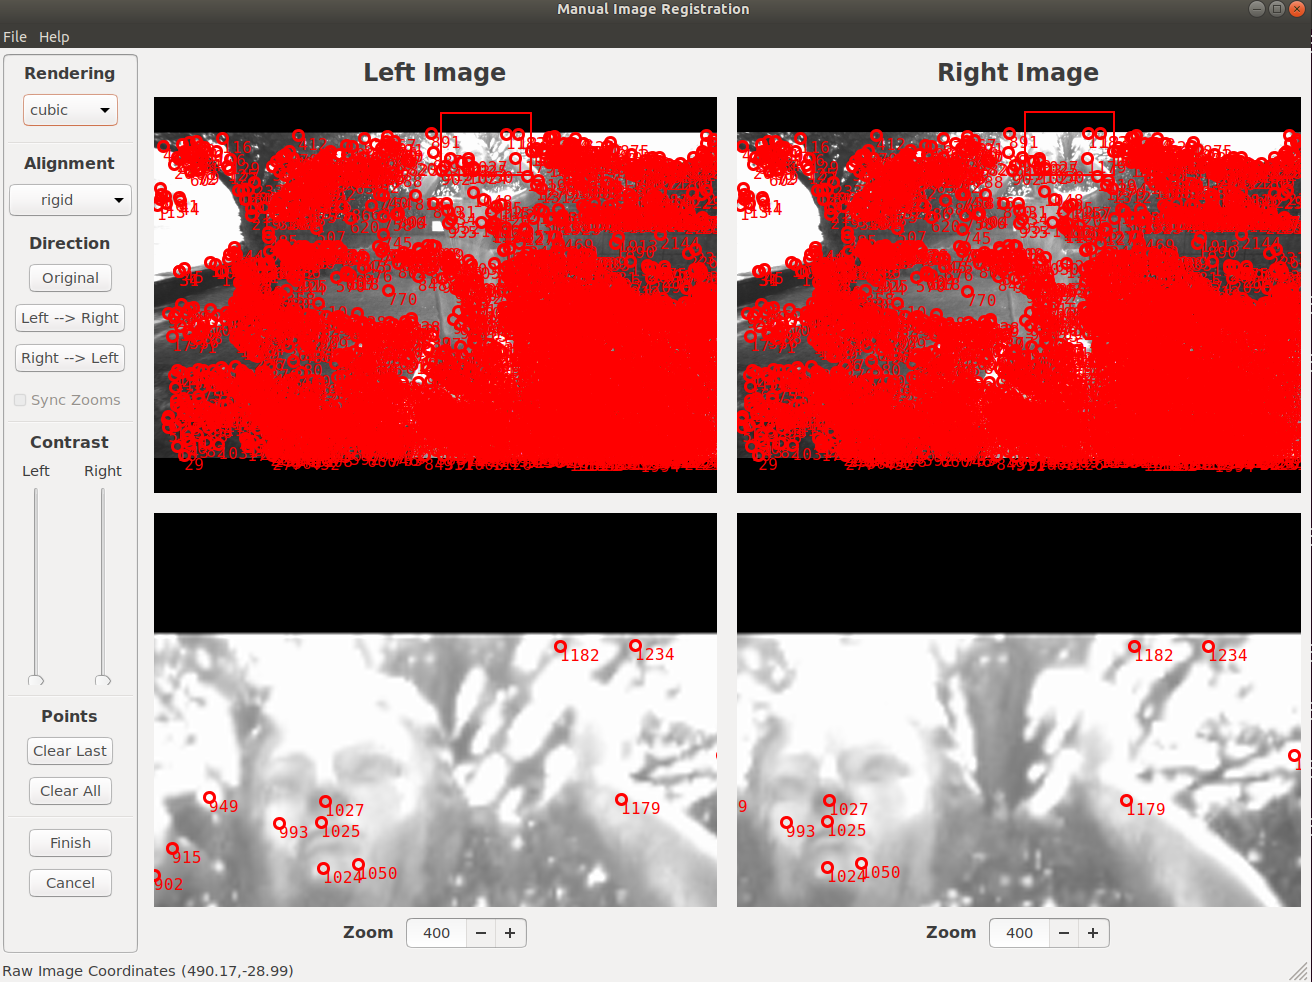
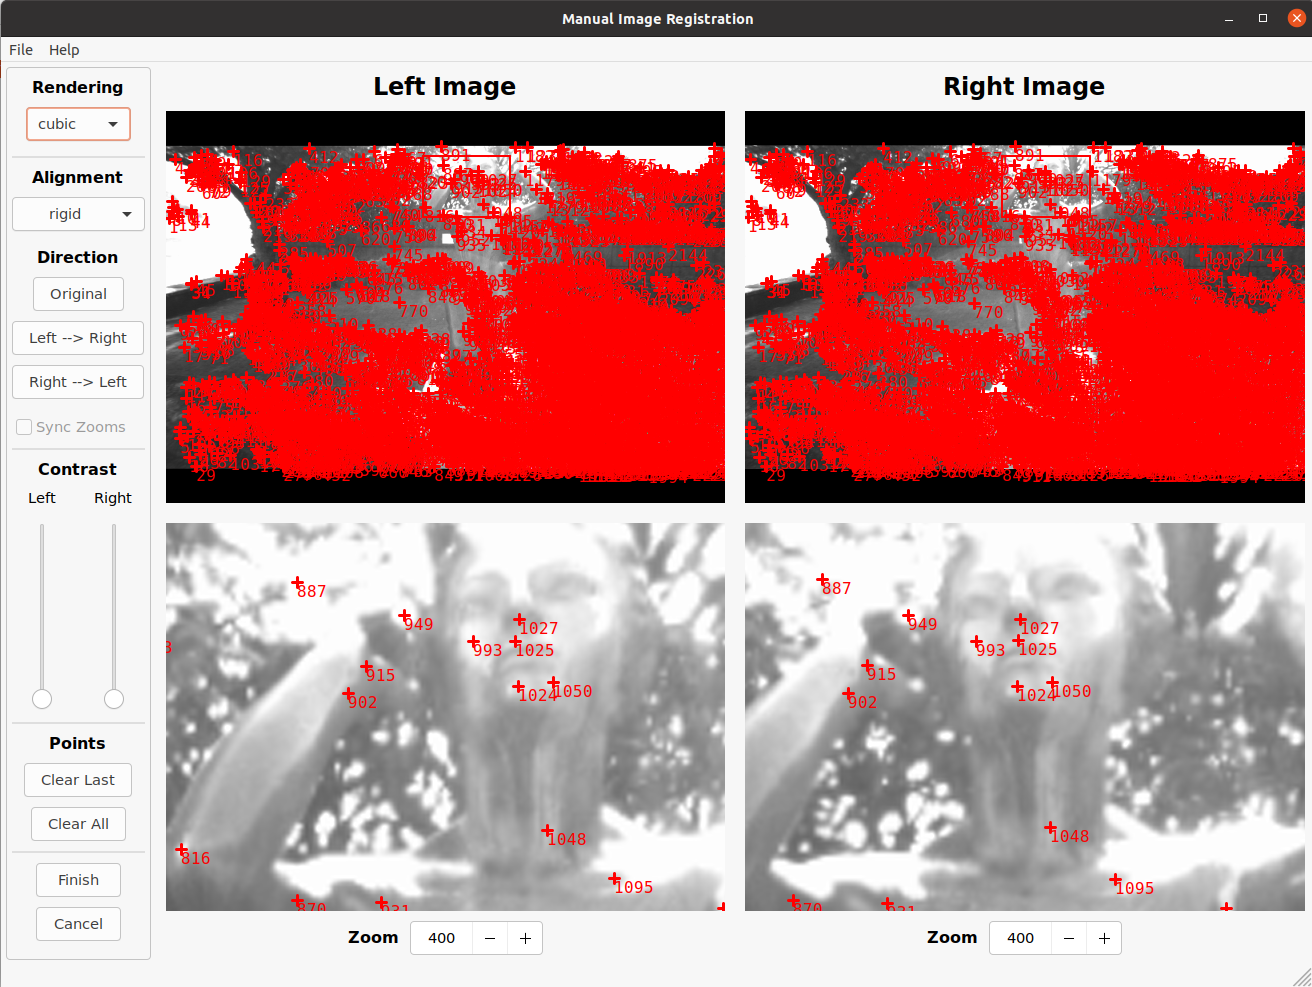
cross

diff --git a/keypointgui/gui.py b/keypointgui/gui.py
@@ -430,7 +430,10 @@ class ImagePanelManager(object):
                 x, y = self.red_points[i]
                 pt = np.dot(self.homography, [x,y,1])
                 x, y = pt[:2]/pt[2]
-                dc.DrawCircle(x, y, self.circle_radius)
+                #dc.DrawCircle(x, y, self.circle_radius)
+                #dc.DrawCheckMark(x, y, self.circle_radius, self.circle_radius)
+                dc.DrawLine(x - self.circle_radius, y, x + self.circle_radius, y)
+                dc.DrawLine(x, y - self.circle_radius, x, y + self.circle_radius)
                 dc.DrawText(str(i+1), x, y)
 
         if self.green_points is not None:
